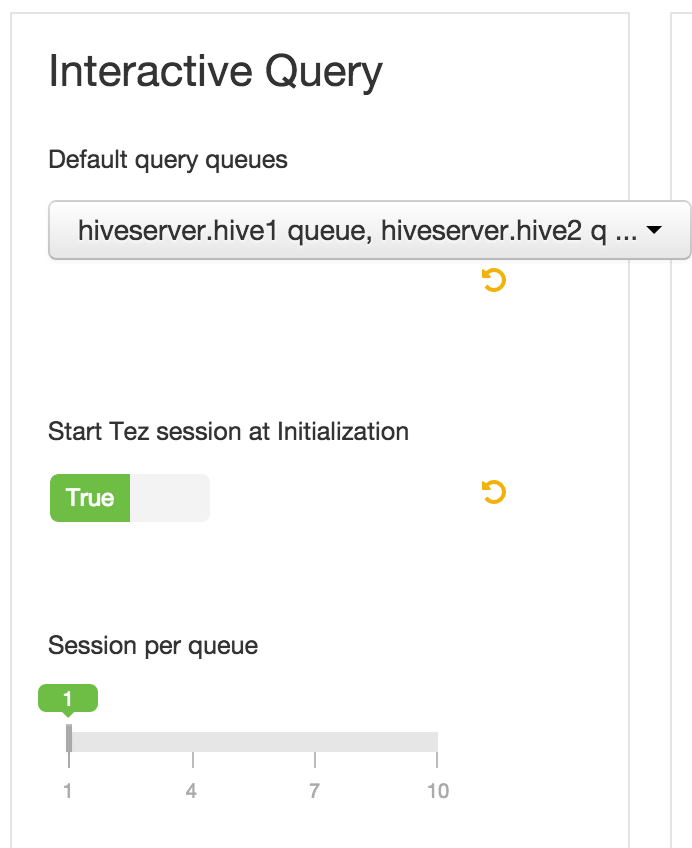
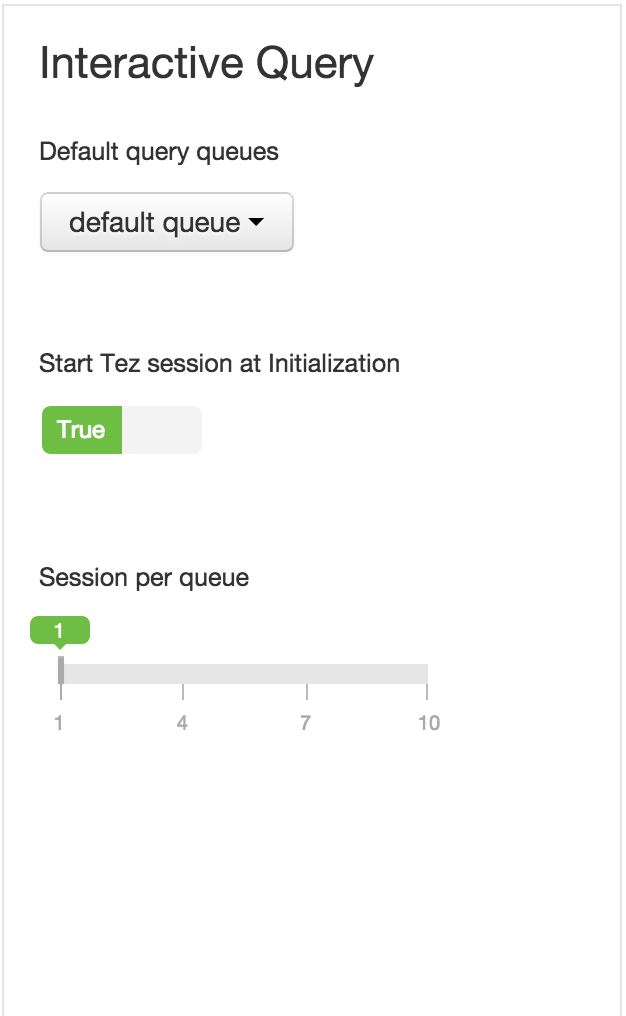
updated queues

diff --git a/README.md b/README.md
@@ -30,14 +30,22 @@ Instructions for HDP 2.2 can be found [here](https://github.com/abajwa-hw/hdp22-
 ssh root@sandbox.hortonworks.com
 ```
 
-- Open YARN Queue Manager view: http://sandbox.hortonworks.com:8080/#/main/views/CAPACITY-SCHEDULER/1.0.0/AUTO_CS_INSTANCE 
-- Use the view to setup YARN queues:
-  - allocate half the capacity of the cluster to hive (with other half going to default)
-  - subdivide the hive queue into 2 queues: hive1 and hive2
-  - on each subqueue, set user-limit-factor=4
-  - Click Actions > Save and refresh configs
+- Setup/configure 'batch' and 'default' YARN queues using 'YARN Queue Manager' view in Ambari (login as admin/admin): http://sandbox.hortonworks.com:8080/#/main/views/CAPACITY-SCHEDULER/1.0.0/AUTO_CS_INSTANCE
+  - For the default queue, make the below changes:
+    - Capacity: 50%
+    - Maximum AM Resource: 30%
+    - Queue mappings: g:IT:batch,g:Marketing:default
+    - User limit: 2 
+    - ordering policy: set to fair
+    - max capacity: 100%
+  ![Image](../master/screenshots/default-queue.png?raw=true)
+  
+  - Create a batch queue at the same level as default queue (first highlight root queue, then click "Add Queue") and ensure the below are set changes:
+    - Capacity: 50%  
+    - max capacity: 50%
+  ![Image](../master/screenshots/batch-queue.png?raw=true)
 
-![Image](../master/screenshots/screenshot-capacity-scheduler-view.png?raw=true)
+  - Actions > Save and refresh queues > Save changes. This should start a 'Refresh Yarn Capacity Scheduler' operation
 
 - In Ambari, under YARN config: make the below pre-emption config changes,Save and restart YARN
 
